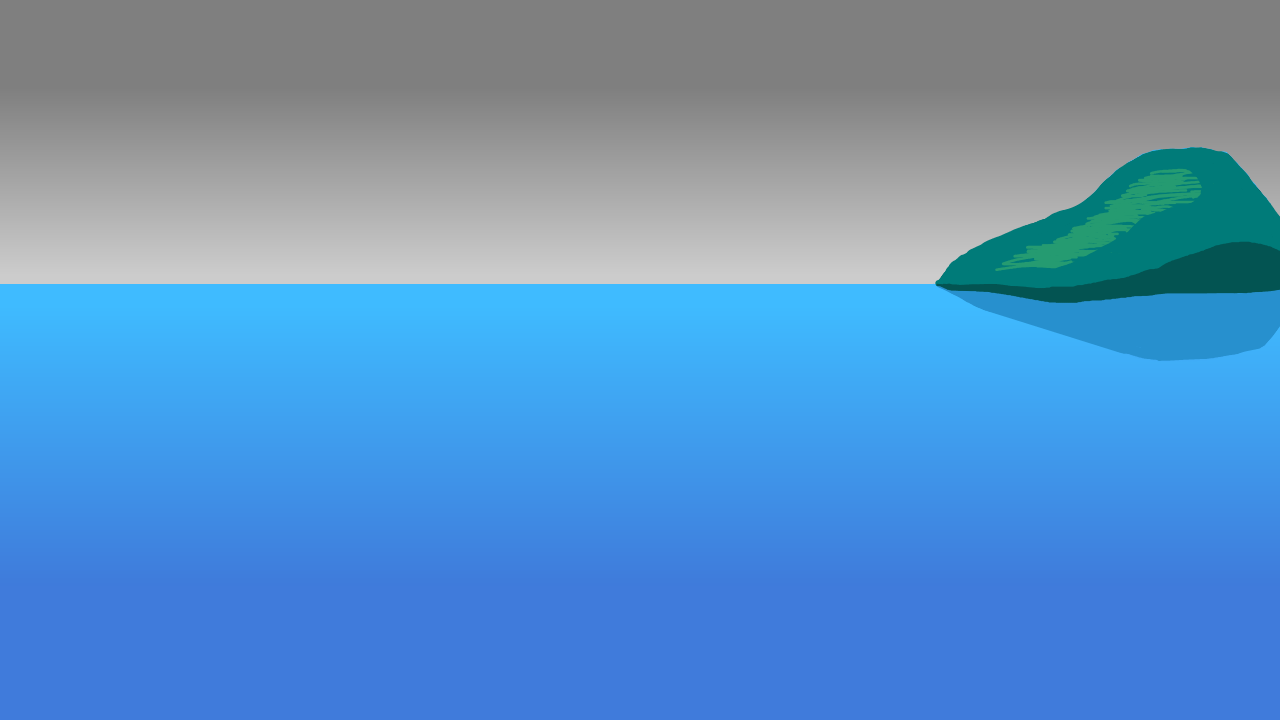
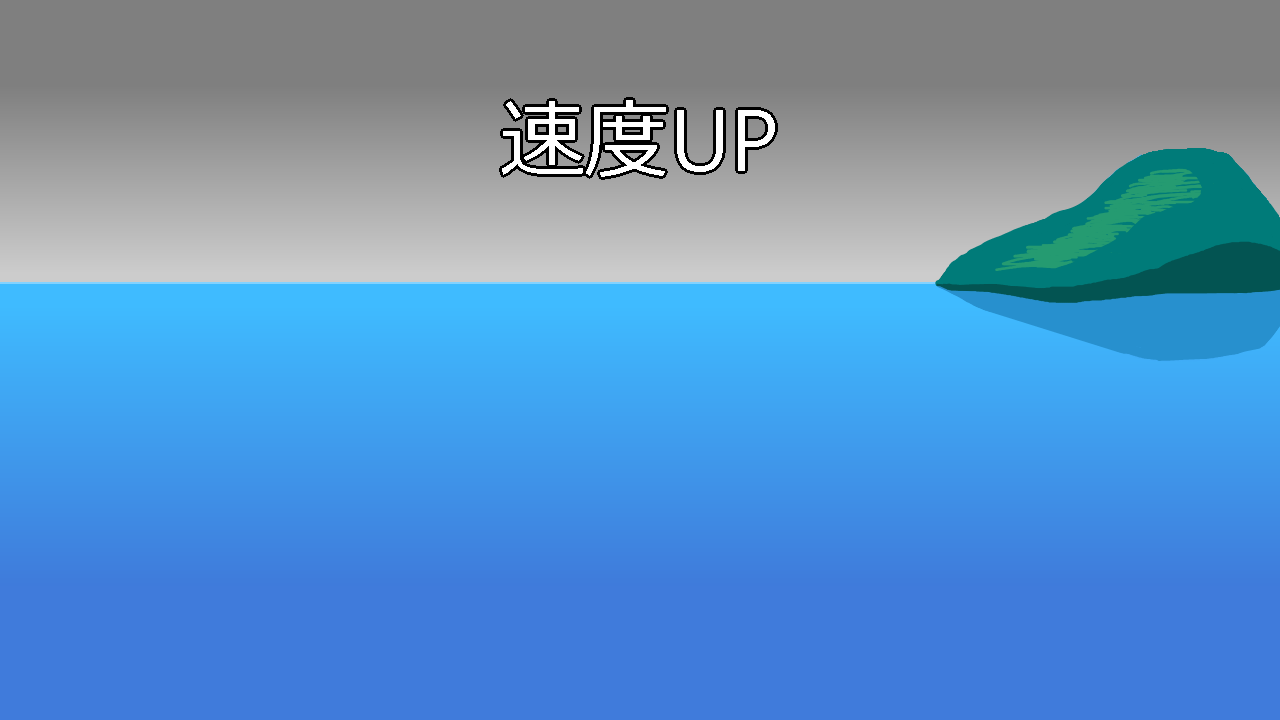
主用のモデル作成プログラムには入れていない説明天気の背景変更タイトルシーンいれた

Changed region(s): [[0.375, 0.1222, 0.625, 0.2444]]

diff --git a/DirectXGame/TitleScene.cpp b/DirectXGame/TitleScene.cpp
@@ -17,7 +17,10 @@ void TitleScene::Initialize() {
 
 	titleBgmHandle_ = Audio::GetInstance()->LoadWave("./BGM/In the Sweet By and By.mp3");
 
-	//titleSprite_ = TextureManager::Load("Resources/titleText/")
+	titleBackground_ = TextureManager::Load("Resources/titleText/");
+
+	// スプライト作成
+	titleSprite_ = Sprite::Create(titleBackground_, {0.0f, 0.0f});
 
 }
 
@@ -68,6 +71,11 @@ void TitleScene::Draw() {
 
 	// スプライト描画前処理
 	Sprite::PreDraw(dxCommon->GetCommandList());
+
+	if (titleSprite_) {
+
+		titleSprite_->Draw();
+	}
 
 	//フェード
 	fade_->Draw(dxCommon->GetCommandList());

diff --git a/DirectXGame/TutorialScene.cpp b/DirectXGame/TutorialScene.cpp
@@ -23,8 +23,8 @@ void TutorialScene::Initialize() {
 
 	timer = 0;
 
-	tutorialScoreGround_[0] = TextureManager::Load("./Resources/scoreBackground/scoreBackground.png");
-	tutorialScoreGround_[1] = TextureManager::Load("./Resources/scoreBackground/scoreBackground.png");
+	tutorialScoreGround_[0] = TextureManager::Load("./Resources/tutorial/explanation.png");
+	tutorialScoreGround_[1] = TextureManager::Load("./Resources/tutorial/Scorecard.png");
 
 	for (int i = 0; i < 2; i++)
 	{

diff --git a/DirectXGame/TitleScene.h b/DirectXGame/TitleScene.h
@@ -44,8 +44,12 @@ private:
 
 	uint32_t titleBgmHandle_; // タイトルのBGM
 
+	// テクスチャハンドル
+	uint32_t titleBackground_ = 0u;
+
 	//タイトル画像
-	//KamataEngine::Sprite* titleSprite_ =nullptr;
+	KamataEngine::Sprite* titleSprite_ =nullptr;
+	
 
 
 };
